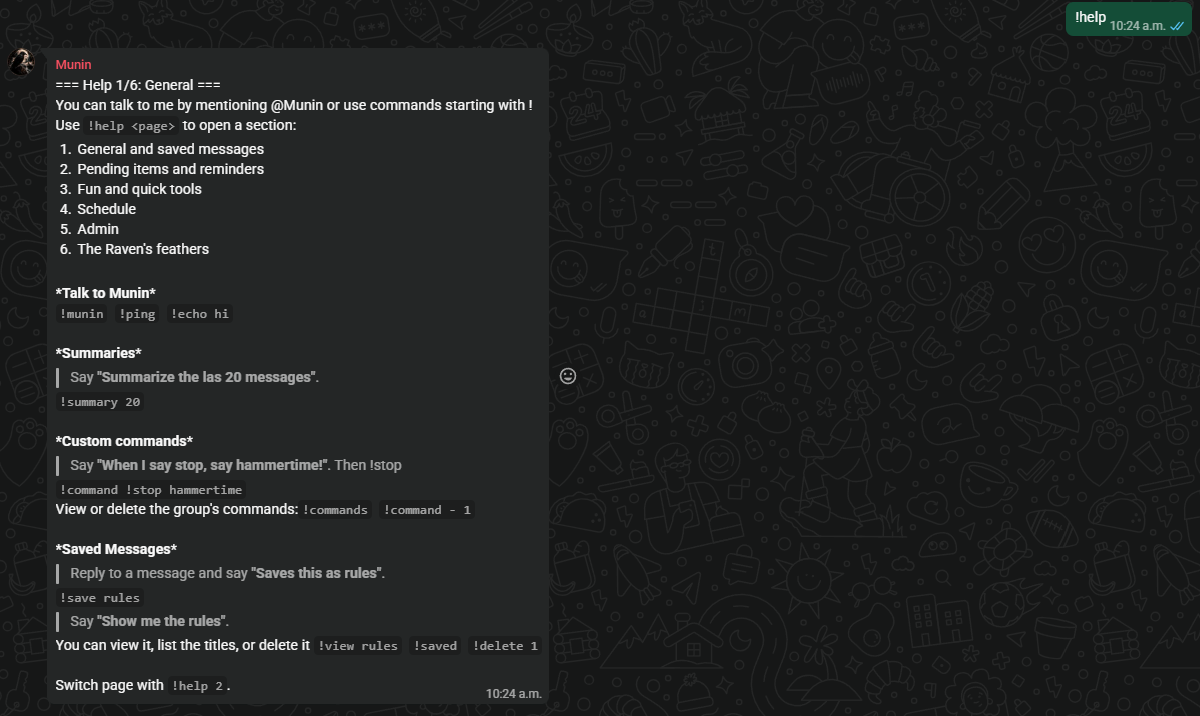
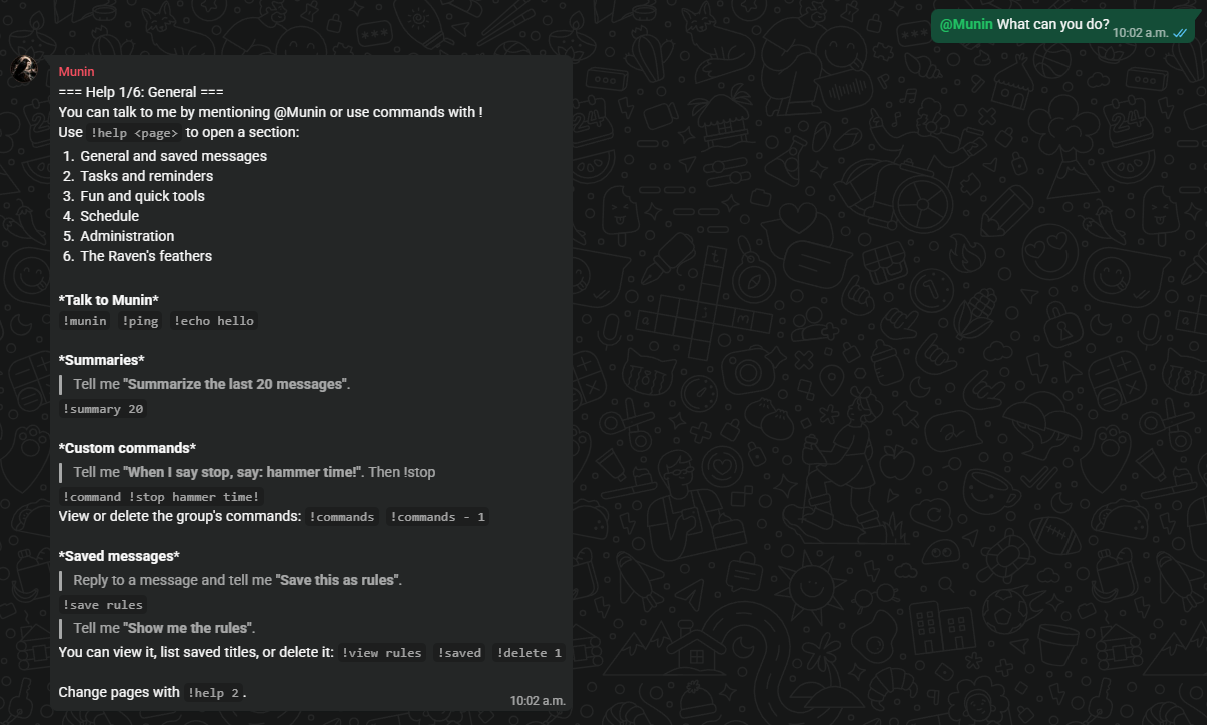
fix: improve README formatting

diff --git a/README.md b/README.md
@@ -1,18 +1,28 @@
 <p align="center">
-  <img src="docs/Munin.png" height="400" alt="Munin, the WhatsApp raven assistant">
+  <img src="docs/Munin.png" height="300" alt="Munin, the WhatsApp raven assistant">
 </p>
 
 # Munin 🐦⬛
 
-<a href="docs/landed.PNG"><img src="docs/landed.PNG" alt="Munin help menu" width="300"></a>
+<p align="center">
+  <a href="docs/landed.PNG">
+    <img src="docs/landed.PNG" alt="Munin help menu" width="300">
+  </a>
+</p>
 
-Munin is an AI-powered WhatsApp group assistant built with Node.js. Inspired by **Muninn**, the raven of memory and messanger of Odin from Norse mythology, Munin can join group conversations, remember and retrieve important messages, understand natural language requests, and handle useful commands all while maintaining its own witty, raven-inspired personality. Munin can also liven up a group chat with fun features like trivia, image generation, per-group custom commands, user stats tracking, and a quest to collect its ultra rare feathers.
+**Munin** is an AI-powered WhatsApp group assistant built with Node.js.
 
-Unlike general-purpose assistants like Meta AI, Munin lives within the group: remembering context, managing reminders and alerts, saving important messages, bringing chaos to the chat with games and other interactive features, and performing actions through fully customizable tools.
+Inspired by **Muninn**, the raven of memory and messenger of Odin from Norse mythology, Munin can join group conversations, remember and retrieve important messages, understand natural language requests, and handle useful commands, all while maintaining its own witty, raven-like personality.
 
-Not just a companion you can talk to, but one that can be tailored specifically for your group.
+Interact with Munin however you prefer: talk to it naturally or use direct commands. Ask "Remind me to submit the assignment tomorrow at 8" or type !r 1d submit the assignment. Munin understands both and gets the job done.
 
-_This project uses whatsapp-web.js, an unofficial WhatsApp Web automation approach rather than an official WhatsApp bot API and is not affiliated with WhatsApp/Meta in any way._
+Munin can also liven up a group chat with features like **trivia, image generation, custom per-group commands, user stats, polls, reminders, and a quest to collect its ultra-rare feathers**.
+
+Unlike general-purpose assistants like Meta AI, **Munin lives within the group**: remembering context, managing reminders and alerts, saving important messages, bringing a little chaos to the chat with games and interactive features, and performing actions through fully customizable tools.
+
+**Not just a companion you can talk to, but one you can tailor specifically to your group.**
+
+> _This project uses whatsapp-web.js, an unofficial WhatsApp Web automation approach rather than the official WhatsApp Business API, and is not affiliated with WhatsApp or Meta._
 
 ---
 
@@ -20,6 +30,7 @@ _This project uses whatsapp-web.js, an unofficial WhatsApp Web automation approa
 
 ### Everyday group assistance
 
+<div align="center">
 <table>
   <tr>
     <td align="center" width="33%"><a href="docs/help.PNG"><img src="docs/help.PNG" alt="Munin help menu" width="220"></a><br><sub>Help menu</sub></td>
@@ -27,9 +38,11 @@ _This project uses whatsapp-web.js, an unofficial WhatsApp Web automation approa
     <td align="center" width="33%"><a href="docs/reminders.PNG"><img src="docs/reminders.PNG" alt="Reminder examples" width="220"></a><br><sub>Recurring reminders</sub></td>
   </tr>
 </table>
+</div>
 
 ### Group activity
 
+<div align="center">
 <table>
   <tr>
     <td align="center" width="33%"><a href="docs/report.PNG"><img src="docs/report.PNG" alt="Weekly group report" width="220"></a><br><sub>Weekly group report</sub></td>
@@ -37,9 +50,11 @@ _This project uses whatsapp-web.js, an unofficial WhatsApp Web automation approa
     <td align="center" width="33%"><a href="docs/trivia.PNG"><img src="docs/trivia.PNG" alt="Trivia game" width="220"></a><br><sub>Live trivia</sub></td>
   </tr>
 </table>
+</div>
 
 ### More examples
 
+<div align="center">
 <table>
   <tr>
     <td align="center" width="33%"><a href="docs/weather.PNG"><img src="docs/weather.PNG" alt="Weather forecast" width="220"></a><br><sub>Weather forecasts</sub></td>
@@ -47,6 +62,7 @@ _This project uses whatsapp-web.js, an unofficial WhatsApp Web automation approa
     <td align="center" width="33%"><a href="docs/image-generation.PNG"><img src="docs/image-generation.PNG" alt="AI image generation" width="220"></a><br><sub>Image generation</sub></td>
   </tr>
 </table>
+</div>
 
 ---
 
@@ -63,7 +79,7 @@ _This project uses whatsapp-web.js, an unofficial WhatsApp Web automation approa
 - Save and retrieve quoted messages without limits (better than WhatsApp pins)
 - Create one-time, absolute, relative, and recurring reminders
 - Maintain dated pending items and receive a daily pending summary
-- Manage a weekly class schedule and optional class-bell reminders
+- Manage a weekly class schedule and optional class-bell alerts
 
 ### Group activity
 
@@ -190,7 +206,7 @@ Use the WhatsApp identifier format shown above—digits plus `@c.us`. The global
 | `!pausa inf`                      | Pause Munin until an administrator resumes it                                 |
 | `!despausa`                       | Resume Munin in the current group                                             |
 
-When a group is paused, Munin ignores normal interaction in that group. Bans and pauses are stored locally in `data/admins.json`.
+When a group is paused, Munin ignores normal interaction in that group from non-admin users. Bans and pauses are stored locally in `data/admins.json`.
 
 ### Automatic weekly reports
 
@@ -228,6 +244,8 @@ Use `!ayuda` in a group for the complete, current paginated command list. Common
 | `!guardar`, `!ver`, `!guardados` | Save and retrieve quoted messages     |
 | `!r`                             | Create or manage reminders            |
 | `!p`                             | Create, list, or remove pending items |
+| `!resumen`                       | Summarize recent group messages       |
+| `!clases`                        | View today's class schedule           |
 | `!clima`                         | Get a weather forecast                |
 | `!trivia`                        | Start group trivia                    |
 | `!stats`, `!reporte`             | View personal and group activity      |
